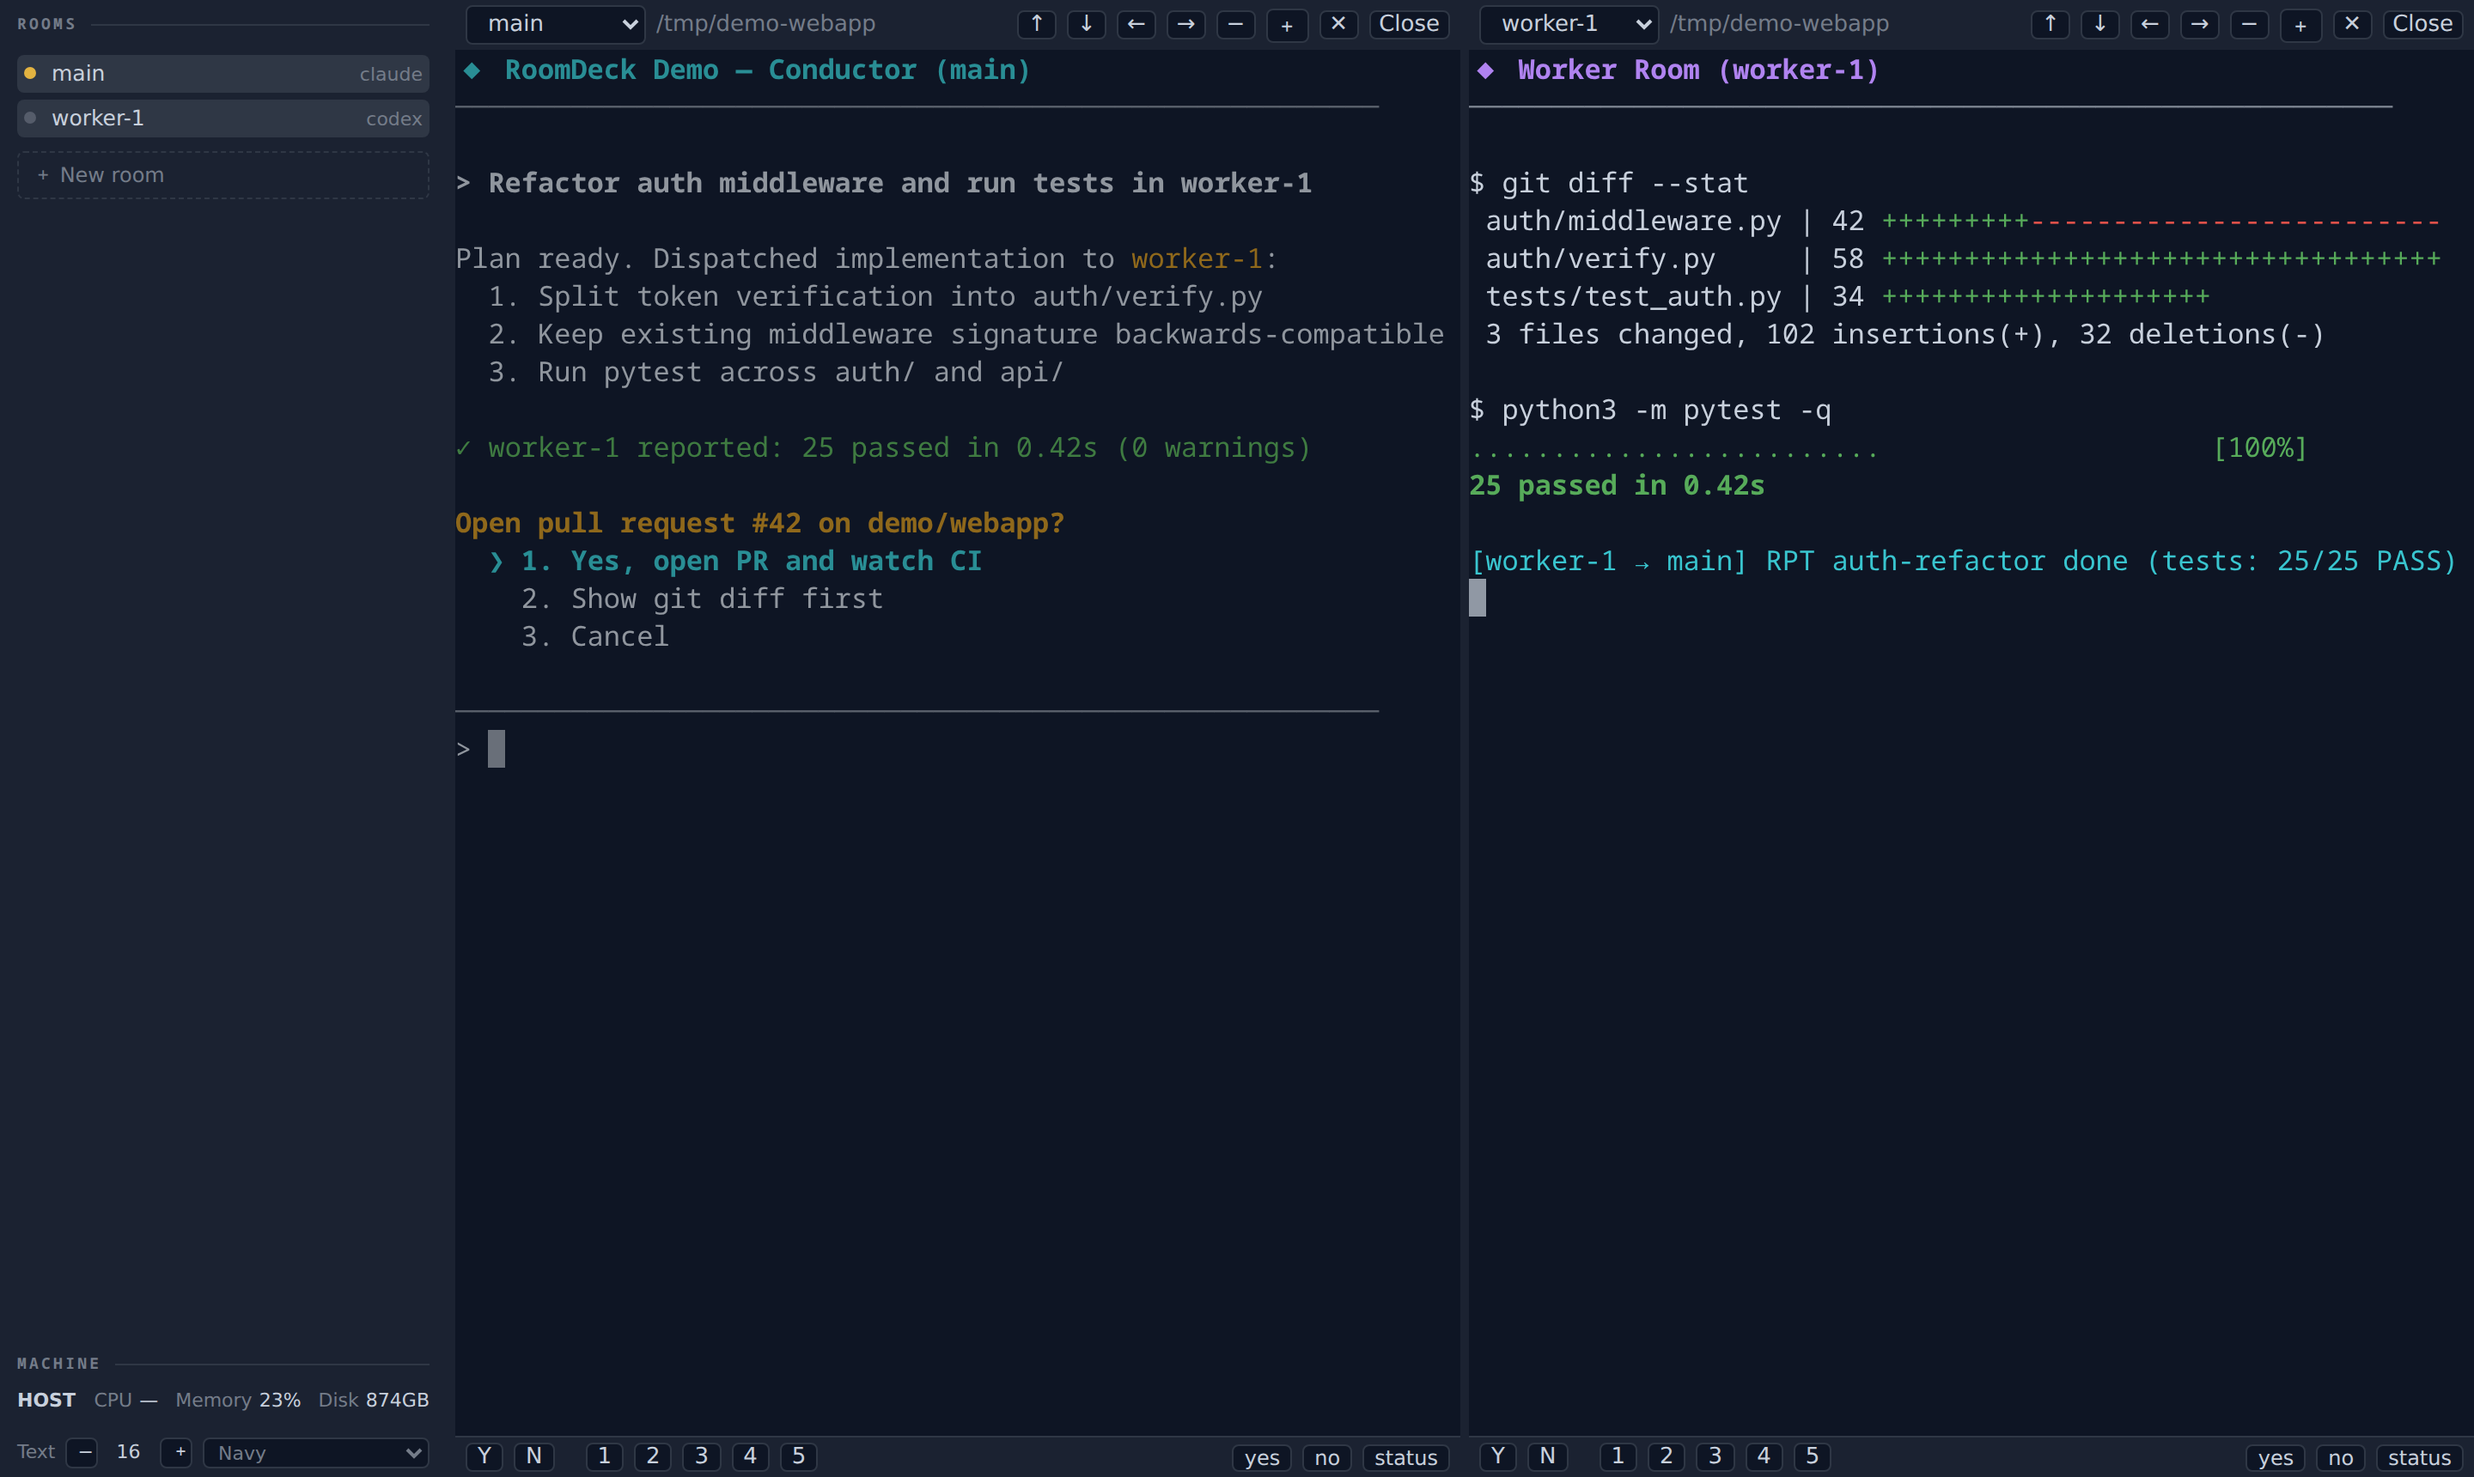
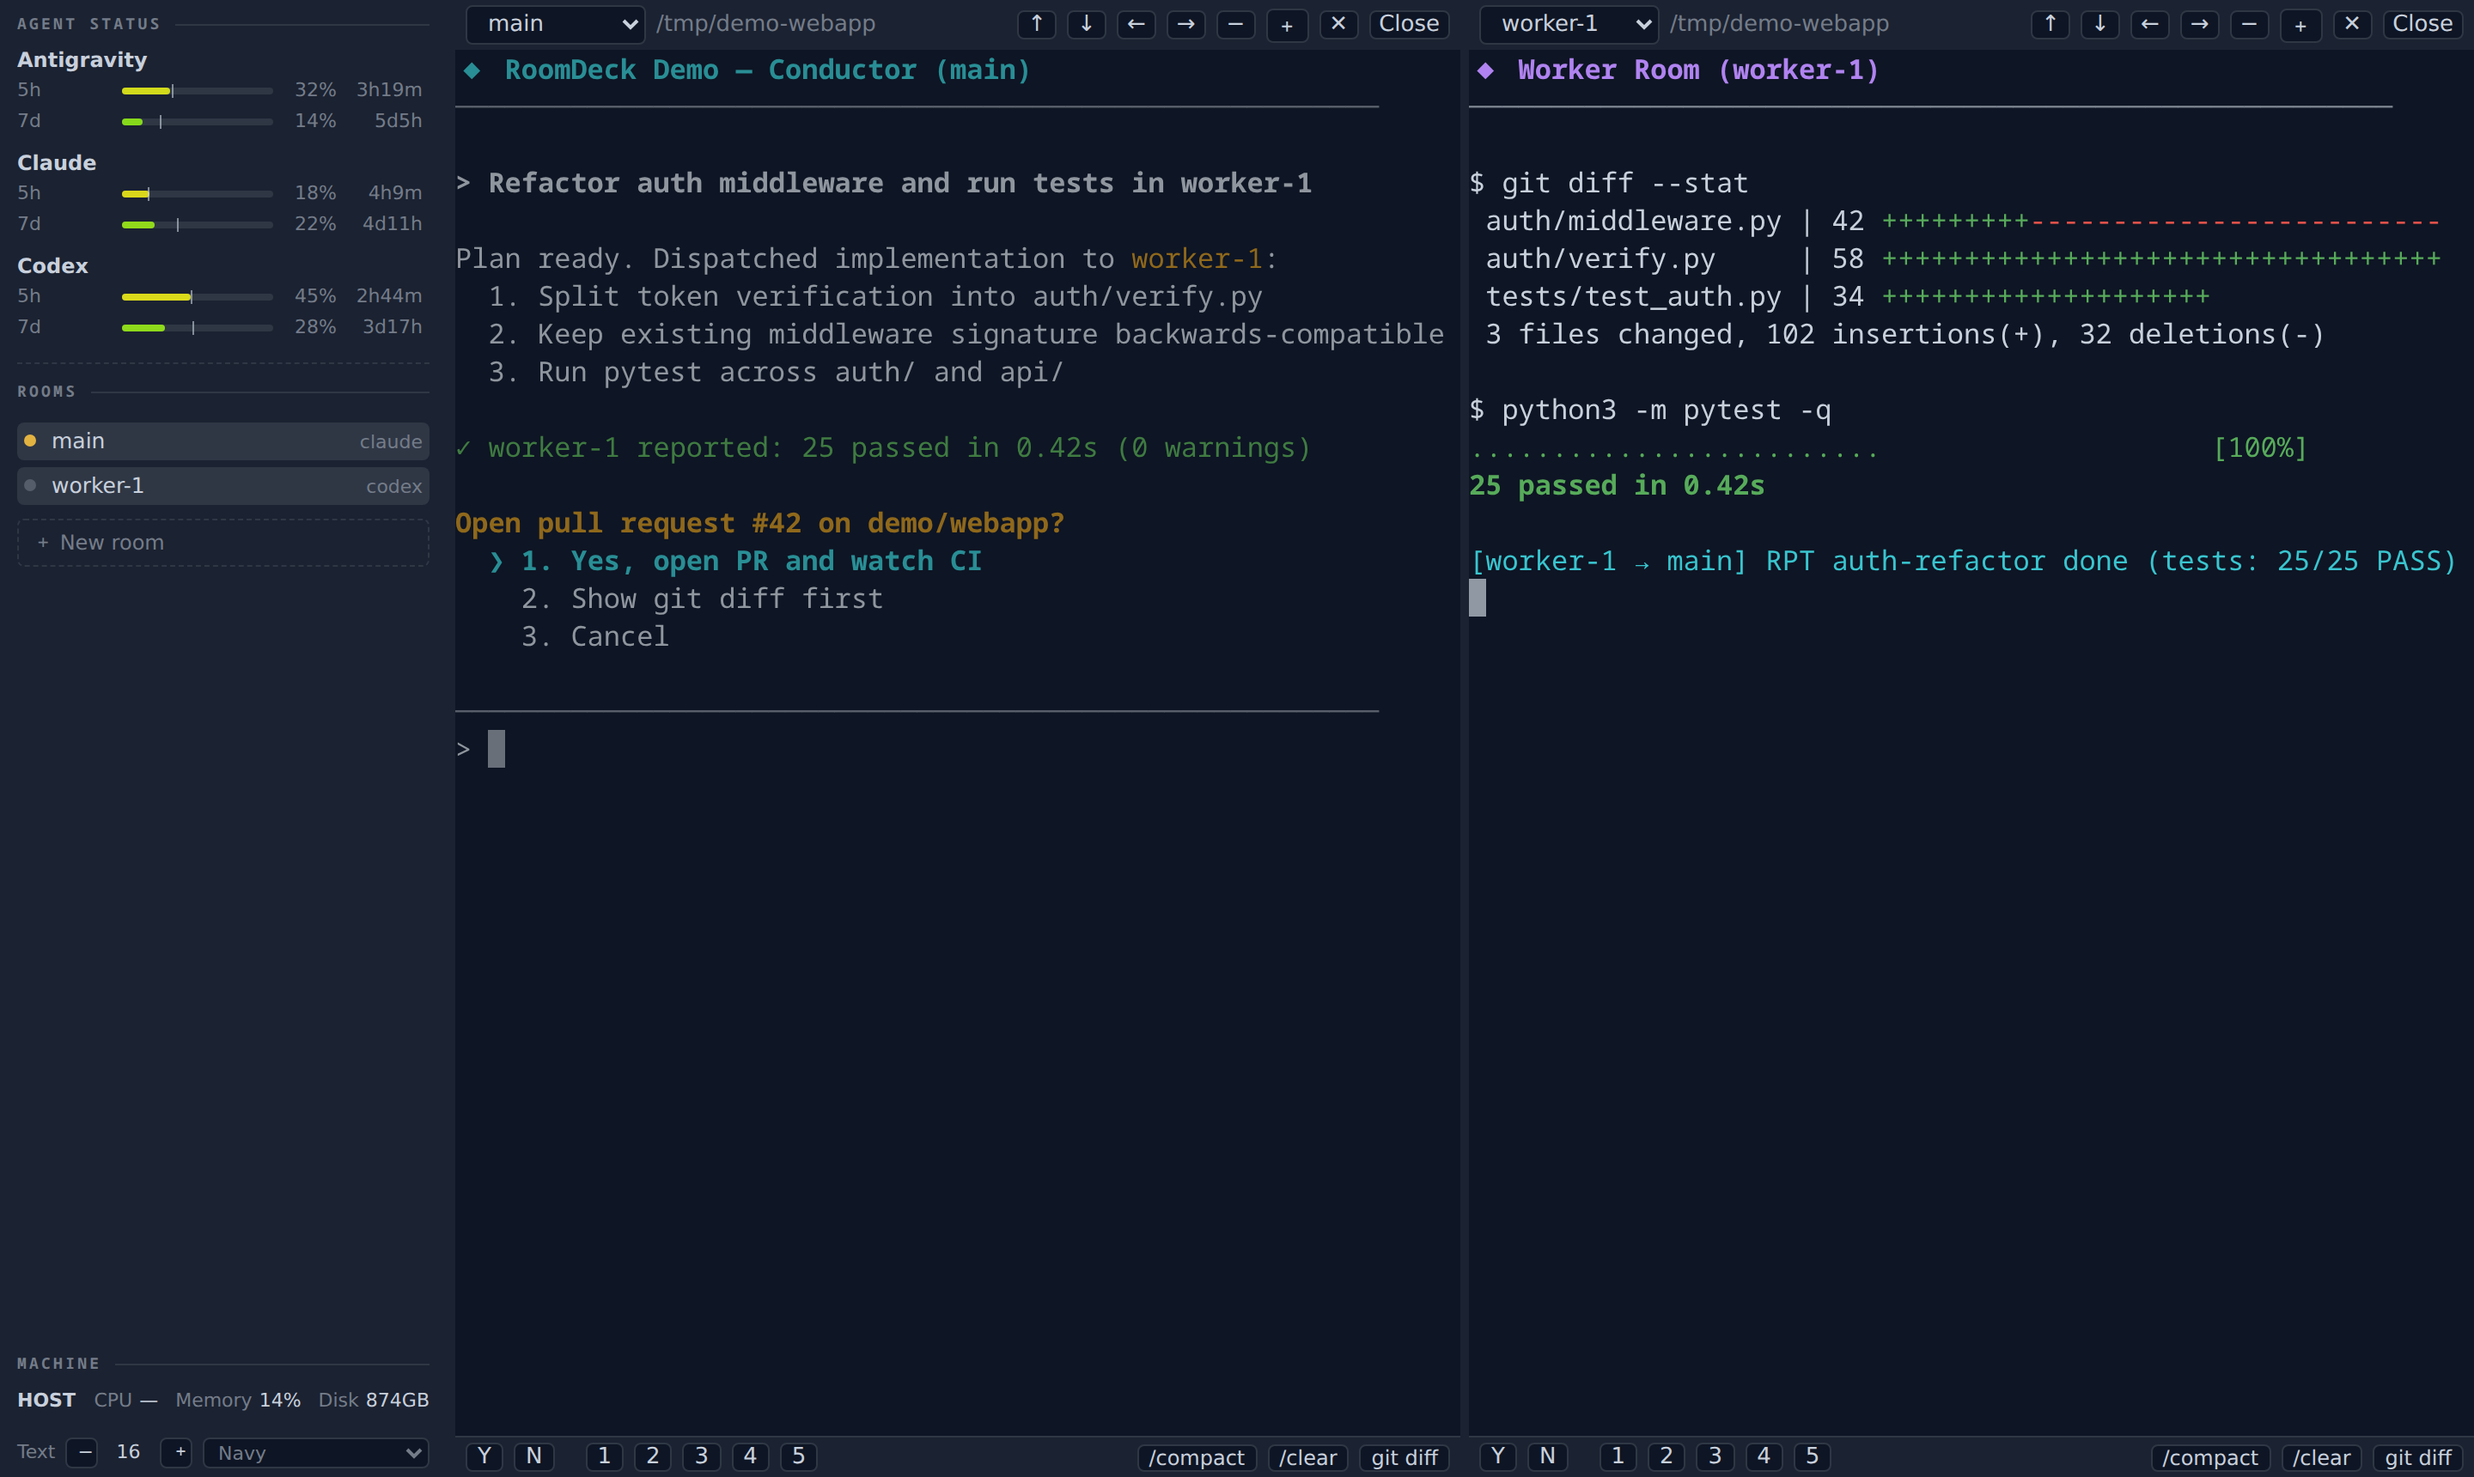
feat: add AGENT STATUS sidebar quota panel and updated screenshot

diff --git a/roomdeck/static/index.html b/roomdeck/static/index.html
@@ -15,7 +15,7 @@ document.documentElement.classList.toggle('embed-mode', params.get('embed') === 
 <body>
 <div id="app">
   <aside id="side">
-    <section id="usage-sec" class="sec"><div class="sec-title">USAGE</div><div id="usage"></div></section>
+    <section id="usage-sec" class="sec"><div class="sec-title">AGENT STATUS</div><div id="usage"></div></section>
     <div id="usage-resizer" class="sec-resizer"></div>
     <div id="middle">
       <div class="sec-title">ROOMS</div>

diff --git a/roomdeck/server.py b/roomdeck/server.py
@@ -385,12 +385,7 @@ def machine_load():
     return readings
 
 
-def usage():
-    url = config().get("usage_url")
-    if not isinstance(url, str) or not url.startswith("http://127.0.0.1:"):
-        raise OSError("no usage monitor configured")
-    with urllib.request.urlopen(url, timeout=3) as response:
-        data = json.load(response)
+def _format_usage(data):
     agents = [
         {
             "label": a.get("label", ""),
@@ -404,6 +399,19 @@ def usage():
         for a in data.get("agents", [])
     ]
     return {"agents": agents}
+
+
+def usage():
+    cfg = config()
+    url = cfg.get("usage_url")
+    if isinstance(url, str) and url.startswith(("http://127.0.0.1:", "http://localhost:")):
+        with urllib.request.urlopen(url, timeout=3) as response:
+            return _format_usage(json.load(response))
+    raw_file = cfg.get("usage_file")
+    path = Path(raw_file).expanduser() if isinstance(raw_file, str) and raw_file else room.state_dir() / "agent-status.json"
+    if path.is_file():
+        return _format_usage(json.loads(path.read_text(encoding="utf-8")))
+    return {"agents": []}
 
 
 def image_kind(head):

diff --git a/README.md b/README.md
@@ -68,6 +68,21 @@ Copy `config.example.json` to `~/.config/roomdeck/config.json` and customize:
 
 - `rooms.clients`: Keep or add the user's preferred CLIs and flags (e.g. `{"claude": ["claude"], "shell": []}`).
 - `commands`: Customize the bottom toolbar shortcut buttons (each entry has `id`, `label`, `text`).
+- `usage_url` / `usage_file` (optional): Populate the left-sidebar **AGENT STATUS** quota meter from a local loopback JSON endpoint (`http://127.0.0.1:<port>/...`) or a local JSON file (default `~/.local/state/roomdeck/agent-status.json`). Schema:
+  ```json
+  {
+    "agents": [
+      {
+        "label": "Claude",
+        "ok": true,
+        "windows": [
+          {"win": "5h", "pct": 24, "reset": 1800000000},
+          {"win": "7d", "pct": 18, "reset": 1800500000}
+        ]
+      }
+    ]
+  }
+  ```
 - `site`: Keep `hosts` and `origins` restricted to `localhost` / `127.0.0.1` unless configuring a reverse proxy (see Step 4).
 
 Environment variables (all optional):
